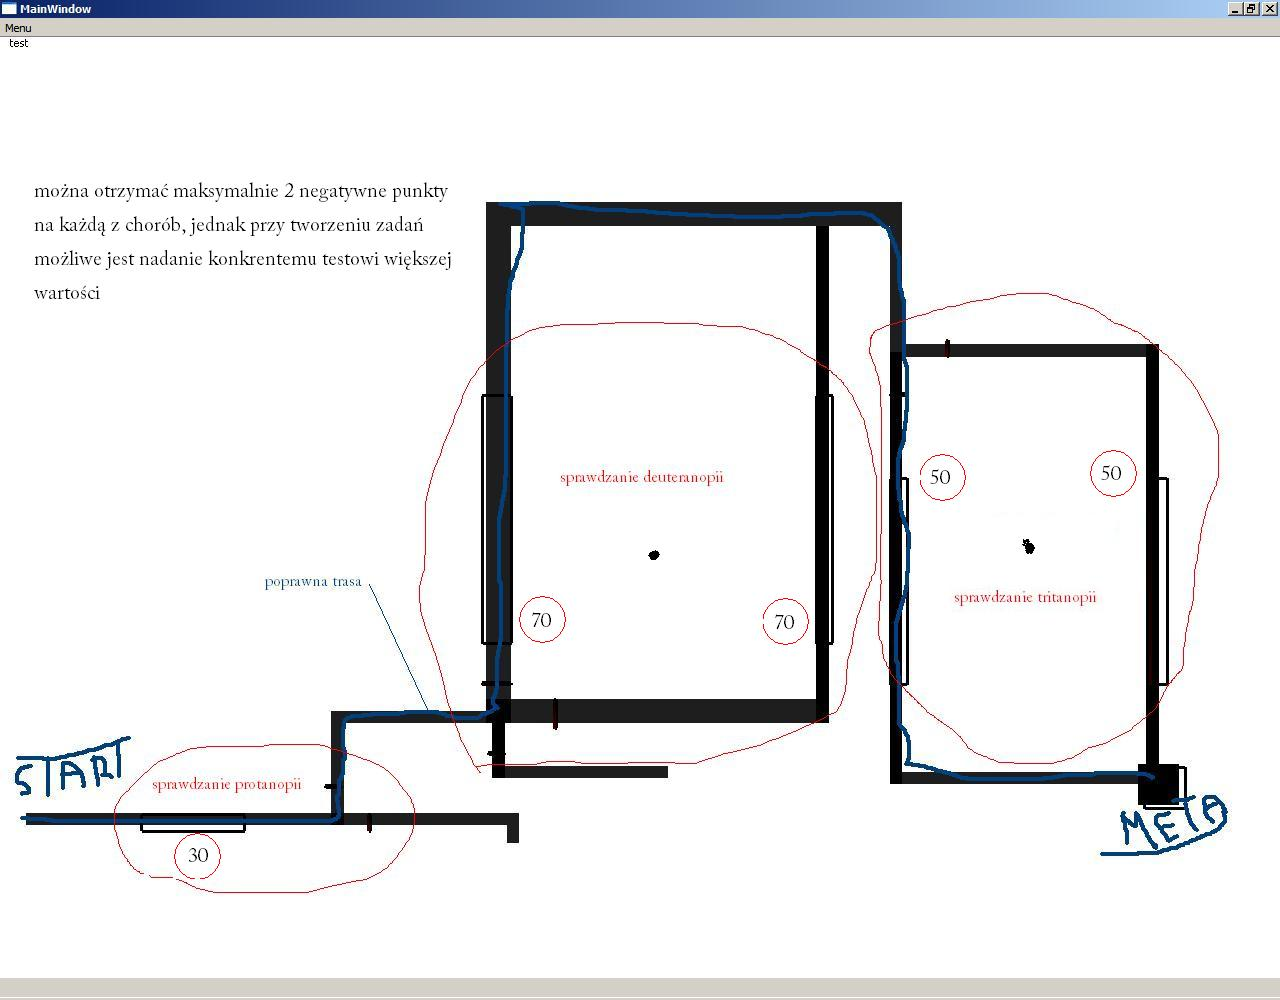
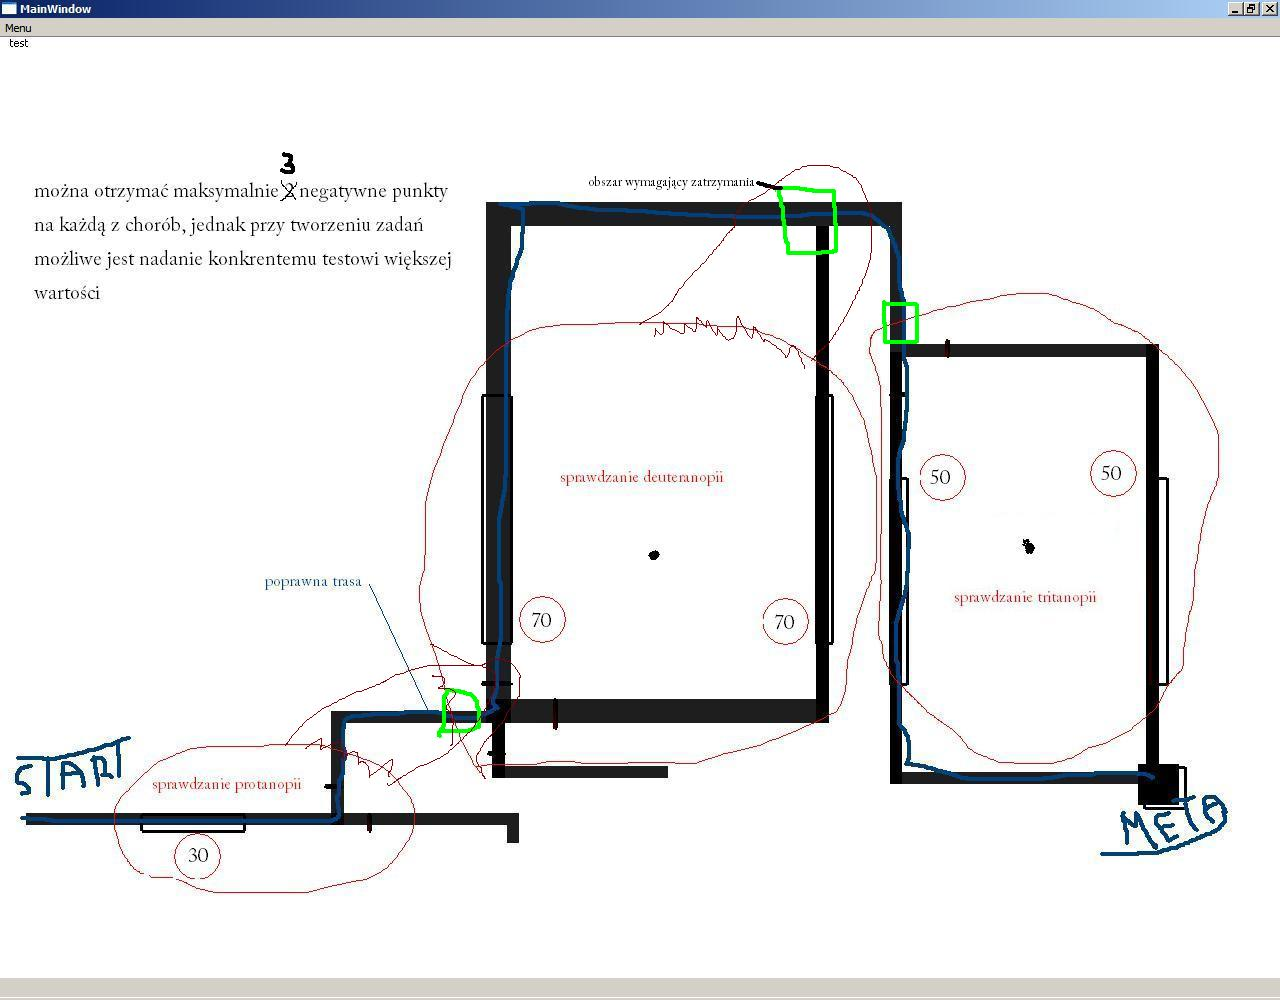
dodane nowe zadanie: pole zatrzymania. umieszczone zostalo przed skrzyzowaniami i tam trzeba wstawic odpowiednie dla kazdej choroby znaki stopu

diff --git a/projekt_gra/zadaniaKontrolne/podsumowaniezadan.cpp b/projekt_gra/zadaniaKontrolne/podsumowaniezadan.cpp
@@ -12,6 +12,7 @@ PodsumowanieZadan::PodsumowanieZadan( std::vector< ZadanieKontrolne* >zadania,
     this->zadania = zadania;
 
     punktyProtanopii = punktyDeuteranopii = punktyTritanopii = 0;
+    zadanProtanopii = zadanDeuteranopii = zadanTritanopii = 0;
 }
 void PodsumowanieZadan::dzialanie(const Pojazd *pojazd) {
 
@@ -21,24 +22,40 @@ void PodsumowanieZadan::dzialanie(const Pojazd *pojazd) {
         sprawdzajKolizje = false;
 
         foreach (ZadanieKontrolne *el, zadania) {
-            if ( el->zadanieAktywowane && !el->zadanieZaliczonePoprawnie )
+            if ( el->zadanieAktywowane){
                 switch( el->rodzajDichromatyzmu ){
                     case ZadanieKontrolne::RodzajDichromatyzmu::PROTANOPIA:
-                        punktyProtanopii += el->wartoscDichromatyzmu;
+                        zadanProtanopii++;
                         break;
                     case ZadanieKontrolne::RodzajDichromatyzmu::DEUTERANOPIA:
-                        punktyDeuteranopii += el->wartoscDichromatyzmu;
+                        zadanDeuteranopii++;
                         break;
                     case ZadanieKontrolne::RodzajDichromatyzmu::TRITANOPIA:
-                        punktyTritanopii += el->wartoscDichromatyzmu;
+                        zadanTritanopii++;
                         break;
                     default: ;
                 }
+                if (!el->zadanieZaliczonePoprawnie )
+                    switch( el->rodzajDichromatyzmu ){
+                        case ZadanieKontrolne::RodzajDichromatyzmu::PROTANOPIA:
+                            punktyProtanopii += el->wartoscDichromatyzmu;
+                            break;
+                        case ZadanieKontrolne::RodzajDichromatyzmu::DEUTERANOPIA:
+                            punktyDeuteranopii += el->wartoscDichromatyzmu;
+                            break;
+                        case ZadanieKontrolne::RodzajDichromatyzmu::TRITANOPIA:
+                            punktyTritanopii += el->wartoscDichromatyzmu;
+                            break;
+                        default: ;
+                    }
+            }
         }
 
-        qDebug()<<"punktyProtanopii: " << punktyProtanopii;
-        qDebug()<<"punktyDeuteranopii: " << punktyDeuteranopii;
-        qDebug()<<"punktyTritanopii: " << punktyTritanopii;
+        qDebug()<<"# ilosc poprawnie zaliczonych zadan / ilosc przejechanych zadan"
+                   <<" (powinno byc po x/3. jesli jest mniej, to znaczy ze czesc zadan ominieto).";
+        qDebug()<<"punktyProtanopii: " << zadanProtanopii - punktyProtanopii << "/" << zadanProtanopii;
+        qDebug()<<"punktyDeuteranopii: " << zadanDeuteranopii - punktyDeuteranopii << "/" << zadanDeuteranopii;
+        qDebug()<<"punktyTritanopii: " << zadanTritanopii - punktyTritanopii << "/" << zadanTritanopii;
     }
 
 }

diff --git a/projekt_gra/mapa.cpp b/projekt_gra/mapa.cpp
@@ -7,6 +7,7 @@
 #include "zadaniaKontrolne/punktkontrolny.h"
 #include "zadaniaKontrolne/powiazaniezadan.h"
 #include "zadaniaKontrolne/polekontrolne.h"
+#include "zadaniaKontrolne/zatrzymaniekontrolne.h"
 #include "zadaniaKontrolne/podsumowaniezadan.h"
 
 Mapa::Mapa()
@@ -81,6 +82,11 @@ Mapa::Mapa()
 
     dodajIPowiazZadania( zadaniaNaMapie );
 
+    //zatrzymania (np. przed przejsciami dla pieszych)
+    zadaniaNaMapie.clear();
+    zadaniaNaMapie.push_back( new ZadanieNaMapie( new ZatrzymanieKontrolne( ZadanieKontrolne::PROTANOPIA, 1,
+                                                                    20, 10), 210, 58 ) );
+    dodajIPowiazZadania( zadaniaNaMapie );
 
     /*####################################################################################*/
     /*# ETAP II: DEUTERANOPIA # */
@@ -104,6 +110,12 @@ Mapa::Mapa()
                                  new PunktKontrolny(false, ZadanieKontrolne::DEUTERANOPIA, 1, 8, 1), 228, 46 ) );
     dodajIPowiazZadania( zadaniaNaMapie );
 
+    //zatrzymania (np. przed przejsciami dla pieszych)
+    zadaniaNaMapie.clear();
+    zadaniaNaMapie.push_back( new ZadanieNaMapie( new ZatrzymanieKontrolne( ZadanieKontrolne::DEUTERANOPIA, 1,
+                                                                    30, 30), 370, 290 ) );
+    dodajIPowiazZadania( zadaniaNaMapie );
+
 
     /*####################################################################################*/
     /*# ETAP III: TRITANOPIA # */
@@ -125,6 +137,11 @@ Mapa::Mapa()
                                  new PunktKontrolny(true, ZadanieKontrolne::TRITANOPIA, 0, 8, 1), 423, 220 ) );
     dodajIPowiazZadania( zadaniaNaMapie );
 
+    //zatrzymania (np. przed przejsciami dla pieszych)
+    zadaniaNaMapie.clear();
+    zadaniaNaMapie.push_back( new ZadanieNaMapie( new ZatrzymanieKontrolne( ZadanieKontrolne::TRITANOPIA, 1,
+                                                                    8, 20), 423, 246 ) );
+    dodajIPowiazZadania( zadaniaNaMapie );
 
     /*####################################################################################*/
     /* META */

diff --git a/projekt_gra/zadaniaKontrolne/polekontrolne.cpp b/projekt_gra/zadaniaKontrolne/polekontrolne.cpp
@@ -27,9 +27,8 @@ PoleKontrolne::PoleKontrolne( RodzajDichromatyzmu rd, int wartoscDichromatyzmu,
 
 void PoleKontrolne::dzialanie(const Pojazd *pojazd) {
 
-    //jesli gracz wiechal ze zlej strony, to zadanie zostanie zaliczone negayuwnie
+    //jesli gracz wiechal ze zlej strony, to zadanie zostanie zaliczone negatywnie
     if( sprawdzajKolizje &&  zadanieAktywowane && !koliduje ){
-        zadanieAktywowane = true;
         zadanieZaliczonePoprawnie = false;
         qDebug() << "wyjechano z trasy przed koncem testu.";
         qDebug() << "zaliczono poprawnie: " << zadanieZaliczonePoprawnie;
@@ -39,10 +38,10 @@ void PoleKontrolne::dzialanie(const Pojazd *pojazd) {
         }
     }else if( sprawdzajKolizje && koliduje ){
 
-        if( !wjechanoOk && porownajKrawedzie( pojazd, krWe ) ){     //badanie poprawnego wjazdu            
+        if( !wjechanoOk && porownajKrawedzie( pojazd, krWe ) ){     //badanie poprawnego wjazdu
             wjechanoOk = true;
             zadanieAktywowane = true;
-            qDebug() << "\n### wjechano w PunktK. z nim i jego powiaznymi nie beda wiecej sprawdzane kolizje";
+            qDebug() << "\n### wjechano w PoleK. z nim i jego powiaznymi nie beda wiecej sprawdzane kolizje";
 
             foreach(ZadanieKontrolne* el, kontenerPowiazania->zadaniaPowiazane){
                 if (el != this)

diff --git a/projekt_gra/zadaniaKontrolne/zatrzymaniekontrolne.h b/projekt_gra/zadaniaKontrolne/zatrzymaniekontrolne.h
@@ -1,0 +1,18 @@
+#ifndef ZATRZYMANIEKONTROLNE_H
+#define ZATRZYMANIEKONTROLNE_H
+
+#include "przeszkoda.h"
+#include "zadaniekontrolne.h"
+#include "powiazaniezadan.h"
+
+class ZatrzymanieKontrolne : public ZadanieKontrolne
+{
+public:
+    ZatrzymanieKontrolne( RodzajDichromatyzmu rd, int wartoscDichromatyzmu,
+                          uint szer, uint dl, float dx = 0, float dy = 0);
+
+    void przeliczObszarKolizji(uint x, uint y);
+    void dzialanie( const Pojazd *pojazd );
+};
+
+#endif // ZATRZYMANIEKONTROLNE_H

diff --git a/projekt_gra/zadaniaKontrolne/zadaniekontrolne.cpp b/projekt_gra/zadaniaKontrolne/zadaniekontrolne.cpp
@@ -7,6 +7,7 @@ ZadanieKontrolne::ZadanieKontrolne(){
 
 ZadanieKontrolne::ZadanieKontrolne(RodzajDichromatyzmu rodzajDichromatyzmu, int wartoscDichromatyzmu ){
     zadanieAktywowane = false;
+    sprawdzajKolizje = true;
     this->wartoscDichromatyzmu = wartoscDichromatyzmu;
     this->rodzajDichromatyzmu = rodzajDichromatyzmu;
 }

diff --git a/projekt_gra/zadaniaKontrolne/podsumowaniezadan.h b/projekt_gra/zadaniaKontrolne/podsumowaniezadan.h
@@ -20,6 +20,7 @@ public:
     std::vector< ZadanieKontrolne* > zadania;
 
     int punktyProtanopii, punktyDeuteranopii, punktyTritanopii;
+    int zadanProtanopii, zadanDeuteranopii, zadanTritanopii;    //ile wykonano zadan
 };
 
 #endif // PODSUMOWANIEZADAN_H
